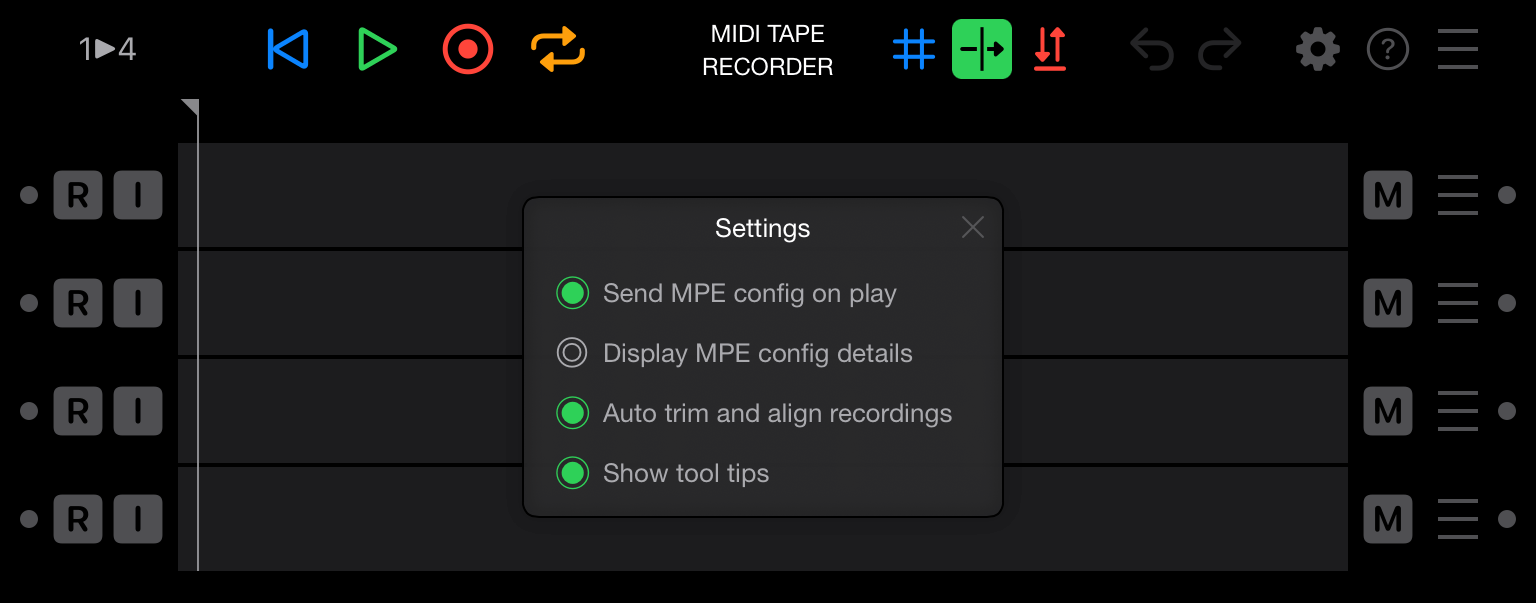
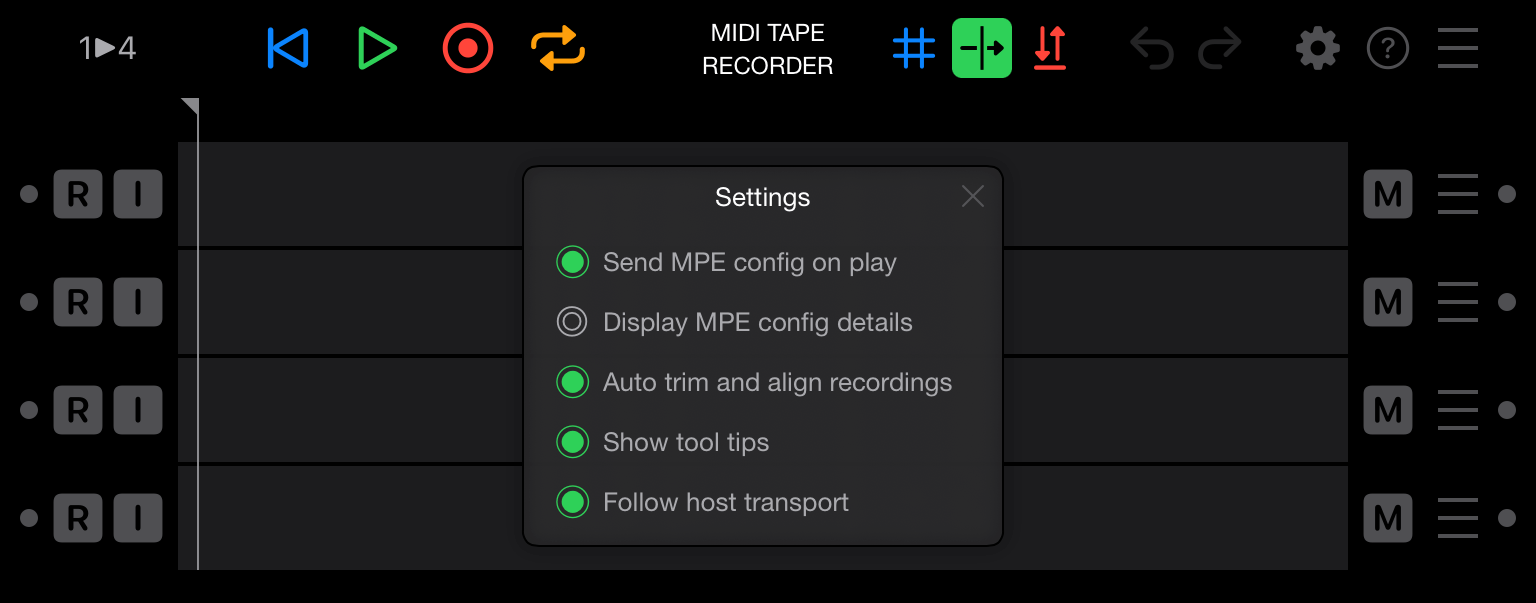
Updated website and docs

diff --git a/Site/history/index.html b/Site/history/index.html
@@ -40,6 +40,29 @@
     <li><em>History</em></li>
   </ul>
 
+  <h2>v1.0.3</h2>
+
+  <ul>
+    <li>Improved beat positioning of MIDI events when recorded with moving host transport, this ensures exact alignment with the host's musical time.</li>
+    <li>Fixed recording from other MIDI plugins (like Fugue Machine) with host transport sometimes creating a very long recording duration.</li>
+    <li>Added setting to disable following the host transport (useful for background recording).</li>
+    <li>Added AUv3 parameters to clear all and clear specific tracks with confirmation (double-activate the parameter within 2 seconds).</li>
+    <li>Fixed clear all not always clearing the duration of the session.</li>
+    <li>Added macOS optimized app icon.</li>
+  </ul>
+
+  <h2>v1.0.2</h2>
+
+  <ul>
+    <li>MIDI file export now uses the .mid file extension instead of .midi.</li>
+  </ul>
+
+  <h2>v1.0.1</h2>
+
+  <ul>
+    <li>Fix for track clear sometimes leaving preview data behind and requiring a second use.</li>
+  </ul>
+
   <h2>v1.0.0</h2>
 
   <ul>

diff --git a/Site/docs/index.html b/Site/docs/index.html
@@ -420,6 +420,11 @@
       <em>Show tool tips:</em><br / >
       When enabled (default), a tool tip will be displayed for each action that is performed.<br /><br />
     </li>
+    <li>
+      <em>Follow host transport:</em><br / >
+      When enabled (default), changes to the host transport will influence MTR.<br />
+      When disabled, MIDI Tape Recorder will run completely independently of the host's transport.<br /><br />
+    </li>
   </ul>
 
 
